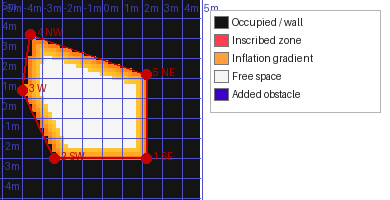
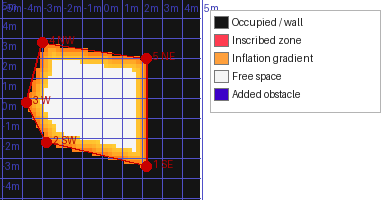
updated costmap

Changed region(s): [[0.0308, 0.12, 0.4615, 0.87]]

diff --git a/scripts/update_costmap.py b/scripts/update_costmap.py
@@ -66,11 +66,11 @@ COST_SCALING     = 2.58
 
 # ── Default arena corners (x, y) in world frame ───────────────────────────────
 DEFAULT_CORNERS = [
-    ( 2.310, -3.160),   # 1 SE
-    (-2.200, -3.070),   # 2 SW
-    (-3.860,  0.280),   # 3 W
-    (-3.453,  3.020),   # 4 NW
-    ( 2.316,  1.123),   # 5 NE
+    ( 2.28, -3.467),   # 1 SE
+    (-2.709, -2.305),   # 2 SW
+    (-3.777,  -0.367),   # 3 W
+    (-2.85,  2.727),   # 4 NW
+    ( 2.2425,  1.9317),   # 5 NE
 ]
 CORNER_LABELS = ["1 SE", "2 SW", "3 W", "4 NW", "5 NE"]
 
